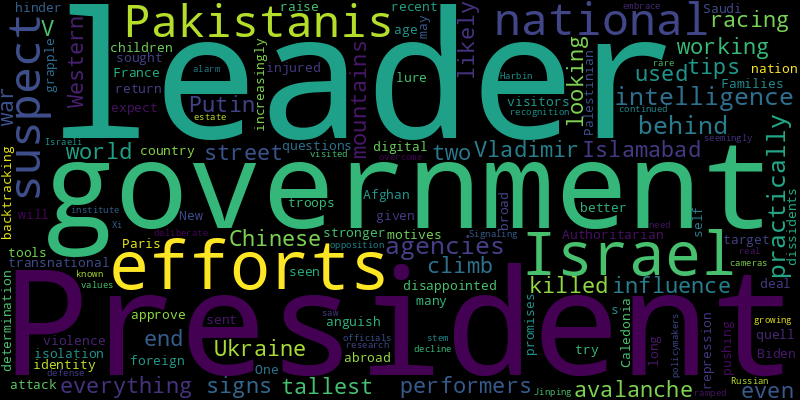
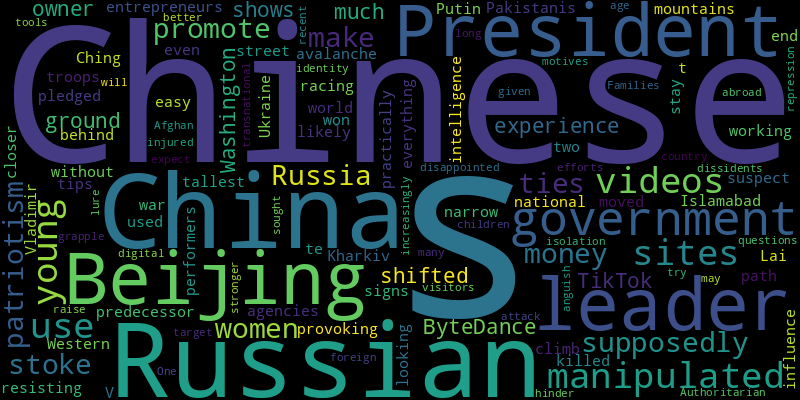
chore(bot): 👻 auto commit

diff --git a/README.md b/README.md
@@ -2,41 +2,41 @@
 Auto RSS New York Times and Generate Word Cloud
 
 ## New York Times Global News
+* President Ebrahim Raisi and Iran’s foreign minister were killed in a helicopter crash, leaving the country without two of its most influential figures.
+* The oldest Ukrainians whose towns have been bombarded and overrun by Russia’s invasion have memories of similar miseries at the hands of Nazi Germany in World War II.
+* Some reservists in the Israel Defense Forces who have returned home from war are joining the growing calls within Israel for Prime Minister Benjamin Netanyahu and his right-wing coalition to step aside.
+* President Lai Ching-te has pledged to stay on his predecessor’s narrow path of resisting Beijing without provoking it. It won’t be easy.
+* With elections a week away, the political comeback of the former president has presented a major test for the country’s young democracy.
+* A.I.-manipulated videos on Chinese sites use young, supposedly Russian women to promote China-Russia ties, stoke patriotism — and make money.
+* A hearing on Monday will determine whether Julian Assange has any more recourse in the British courts to appeal his extradition to the United States.
+* Slovakia has long been dogged by criticism that it is prone to authoritarianism, but a frenzy of blame since an assassination attempt has heightened such concerns.
 * Andrei R. Belousov, an intellectual with no military experience, is known for backing a state-dominated economy.
 * Pakistanis suspect the national intelligence agencies of being behind practically everything — even street performers working for tips in Islamabad.
-* A coach’s soccer legacy is often reduced to titles and trophies. In Liverpool, a beloved manager will endure in murals, music and shared memories.
-* The Ukrainian boxer Oleksandr Usyk became the world’s undisputed heavyweight champion on Sunday. The victory has lifted morale in a country struggling to contain Russian advances on the battlefield.
-* President Luis Abinader goes into Sunday’s race as the clear front-runner, bolstered by nativist migration policies, a strong economy and an anticorruption drive.
-* 
-* Benny Gantz, a centrist member of leadership, presented the prime minister with an ultimatum that demanded a plan for the future of Israel’s war.
-* The celebration of French heritage in the run-up to the Paris Olympics was unveiled on the feast day of Saint Honoré, the patron saint of bakers.
-* A system of dams and canals may soon be unable to provide water to one of the world’s largest cities, a confluence of unchecked growth, crumbling infrastructure and a changing climate.
-* Western leaders looking for signs that the Chinese leader used his influence on President Vladimir V. Putin to end the war in Ukraine are likely to be disappointed.
 
 ![Global](./global.png)
 ## New York Times United States News
-* President Luis Abinader goes into Sunday’s race as the clear front-runner, bolstered by nativist migration policies, a strong economy and an anticorruption drive.
-* A spicy, yellow dollop of cabbage slaw became Tennessee’s first official state food — then everyone had to learn what it was.
-* After trying to reach him for weeks, officials served him the notice as he left his 80th birthday party. He is expected to appear in court on Tuesday.
-* His narrow win there in 2020 was seen as a sign of Georgia’s emergence as a battleground state. But in 2024, President Biden faces a changed landscape there.
-* The president’s appearance at the historically Black college in Atlanta was not welcomed by all on campus, amid dissatisfaction with U.S. support for Israel’s war in Gaza.
-* Public officials from Congress to City Hall are now regularly subjected to threats of violence. It’s changing how they do their jobs.
-* A record number of new migrants has left many with legitimate asylum cases unable to find a lawyer to keep them from being deported.
-* Addressing the annual meeting of the National Rifle Association, former President Donald J. Trump on Saturday promised to roll back the Biden administration’s gun-control measures if elected.
-* The president, who is trailing key states in recent polling, tried to cast the election as a struggle for democracy itself.
-* The talks were the first since Iran attacked Israel last month in retaliation for its killing of an Iranian general.
+* Columbus, Ohio, had only about 100 homicides a year. Then came a pandemic surge. With more guns and looser laws, can the city find its way back to the old normal?
+* President Luis Abinader was bolstered by nativist migration policies, a strong economy and an anticorruption drive.
+* As stifling heat settled over the city, the local electricity provider said most service would return by late Sunday. But hard-hit areas could remain dark for days longer.
+* The court said it made a mistake by not asking David DePape if he had anything to say at his sentencing hearing. The parties will be back in court on May 28.
+* Facing challenges since the pandemic, the seafood chain said it would reduce its locations and sell of most of its assets.
+* Workers on Monday were hoping to move the Dali, which had been pinned in by the wreckage of the Francis Scott Key Bridge since late March.
+* The ruling in the trial of the former president and presumptive Republican nominee, which may come this week, could be a deciding factor in a tight race.
+* The National Democratic Redistricting Committee and Planned Parenthood Votes are joining together to help their preferred candidates for 2024 as state-level party battles gain steam.
+* Finance ministers from the G7 nations are hoping to finalize a plan ahead of the group’s leaders meeting next month.
+* The announcement spells out the terms of a pullout that the Biden administration unveiled last month and comes after a military junta ousted Niger’s president last July.
 
 ![US](./usnews.png)
 ## New York Times Asia News
+* A.I.-manipulated videos on Chinese sites use young, supposedly Russian women to promote China-Russia ties, stoke patriotism — and make money.
+* The experience of TikTok’s owner, ByteDance, in Beijing and Washington shows how much the ground has shifted for China’s entrepreneurs.
+* President Lai Ching-te has pledged to stay on his predecessor’s narrow path of resisting Beijing without provoking it. It won’t be easy.
+* Also, Russian troops moved closer to Kharkiv.
 * Pakistanis suspect the national intelligence agencies of being behind practically everything — even street performers working for tips in Islamabad.
 * The two were racing to climb the 14 tallest mountains in the world when they were killed in an avalanche.
 * Western leaders looking for signs that the Chinese leader used his influence on President Vladimir V. Putin to end the war in Ukraine are likely to be disappointed.
 * Families grapple with anguish and isolation as they try to raise their children in a country that increasingly questions their very identity.
 * One Afghan was also injured in the attack, which many expect will hinder the government’s recent efforts to lure foreign visitors.
 * Authoritarian governments have long sought to target dissidents abroad. But the digital age may have given them stronger motives, and better tools, for transnational repression.
-* France has sent troops to quell violence in New Caledonia, where Paris is seen as backtracking on promises of self-determination.
-* President Biden is pushing for a broad deal that would get Israel to approve a Palestinian nation in return for Saudi recognition of Israel. But officials need to overcome Israeli opposition.
-* The Russian leader visited an institute in Harbin known for defense research. President Xi Jinping saw him off with a rare and seemingly deliberate embrace for the cameras.
-* Signaling growing alarm, policymakers ramped up efforts to stem a continued decline in real estate values.
 
 ![Asian](./asian.png)
